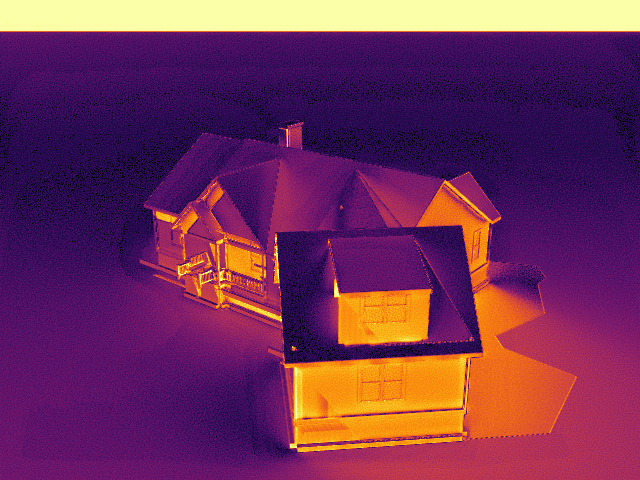
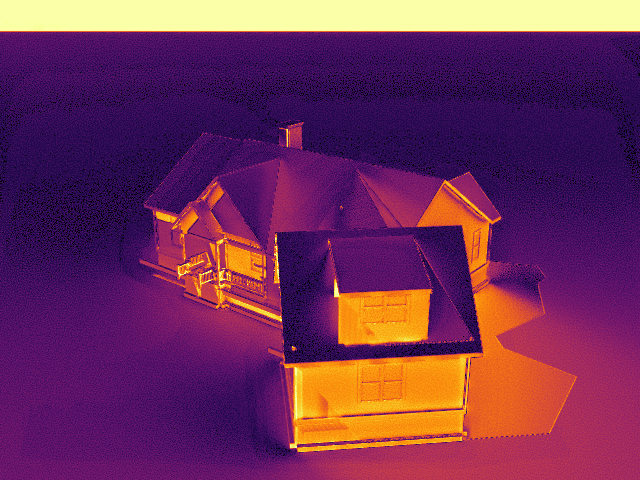
build: track bhouston/three-gpu-pathtracer ss-fidelity branch
The fork merges the upstream PRs gkjohnson/three-gpu-pathtracer#858 (RGB
vertex colour merge) and #859 (InstancedMesh), so the adapter no longer
needs its vertex colour workaround.

Refs #1

Changed region(s): [[0.0, 0.0625, 1.0, 1.0], [0.5938, 0.9062, 0.6562, 0.9375]]

diff --git a/packages/renderers/src/pathtracer.ts b/packages/renderers/src/pathtracer.ts
@@ -1,6 +1,5 @@
 // three-gpu-pathtracer: WebGLRenderer + WebGLPathTracer ground truth of the same scene objects.
 import {
-  BufferAttribute,
   Color,
   CubeCamera,
   HalfFloatType,
@@ -9,7 +8,6 @@ import {
   WebGLCubeRenderTarget,
   WebGLRenderer,
 } from 'three';
-import type { Mesh, Object3D } from 'three';
 import { FullScreenQuad } from 'three/addons/postprocessing/Pass.js';
 import { WebGLPathTracer } from 'three-gpu-pathtracer';
 import type { SceneSetup } from '@ss-fidelity/scenes';
@@ -57,18 +55,6 @@ function createBlitMaterial(setup: SceneSetup): ShaderMaterial {
 // CubeToEquirectGenerator still includes it without using it.
 (ShaderChunk as Record<string, string>).cube_uv_reflection_fragment ??= '';
 
-// three-gpu-pathtracer's mergeGeometries drops RGB vertex colors when merging them with RGBA ones (the default it
-// gives meshes without colors; its itemSize 3→4 branch copies the wrong way), leaving them black: widen them to RGBA.
-export function widenVertexColors(scene: Object3D): void {
-  scene.traverse((object) => {
-    const color = (object as Mesh).geometry?.getAttribute('color');
-    if (!color || color.itemSize !== 3) return;
-    const rgba = new Float32Array(color.count * 4).fill(1);
-    for (let i = 0; i < color.count; i++) rgba.set([color.getX(i), color.getY(i), color.getZ(i)], i * 4);
-    (object as Mesh).geometry.setAttribute('color', new BufferAttribute(rgba, 4));
-  });
-}
-
 export async function createPathTracerRenderer(
   canvas: HTMLCanvasElement,
   setup: SceneSetup,
@@ -87,8 +73,6 @@ export async function createPathTracerRenderer(
     cubeCamera.update(renderer, setup.environment.scene);
     scene.environment = cubeTarget.texture;
   }
-
-  widenVertexColors(scene);
 
   // primary rays that miss must show the gradient composited in the blit: render them as black and transparent
   if (setup.gradientBackground) scene.background = new Color(0x000000);

diff --git a/docs/PLAN.md b/docs/PLAN.md
@@ -92,11 +92,10 @@ renderer cannot express. Everything else is the example verbatim.
   - The raster far plane (`distance + 4·span`) clips the 20·span ground plane, so the top ~30 rows show the HDR
     horizon in three-ss (and the example) but ground in the pathtracer, which has no far clip. Kept as in the example;
     it costs ~4.4 dB of the scene's PSNR (21.7 dB overall, 26.1 dB below row 32).
-  - Dogwood.glb uses RGB (`VEC3`) vertex colours; three-gpu-pathtracer's `mergeGeometries` copies them the wrong way
-    when merging with the RGBA default of uncoloured meshes, leaving them black. The pathtracer adapter widens RGB
-    colours to RGBA (alpha 1) first (`widenVertexColors`).
-  - Its meshes are `EXT_mesh_gpu_instancing` InstancedMeshes (count 1, identity matrix); the pathtracer ignores
-    `instanceMatrix`, which is harmless here.
+  - Dogwood.glb uses RGB (`VEC3`) vertex colours and `EXT_mesh_gpu_instancing` InstancedMeshes. Upstream
+    three-gpu-pathtracer renders the former black and ignores `instanceMatrix`; the submodule therefore tracks
+    `bhouston/three-gpu-pathtracer@ss-fidelity`, which merges the fixes proposed upstream in
+    gkjohnson/three-gpu-pathtracer#858 (vertex colour merge) and #859 (InstancedMesh).
 
 ## Headless rendering (CLI)
 
